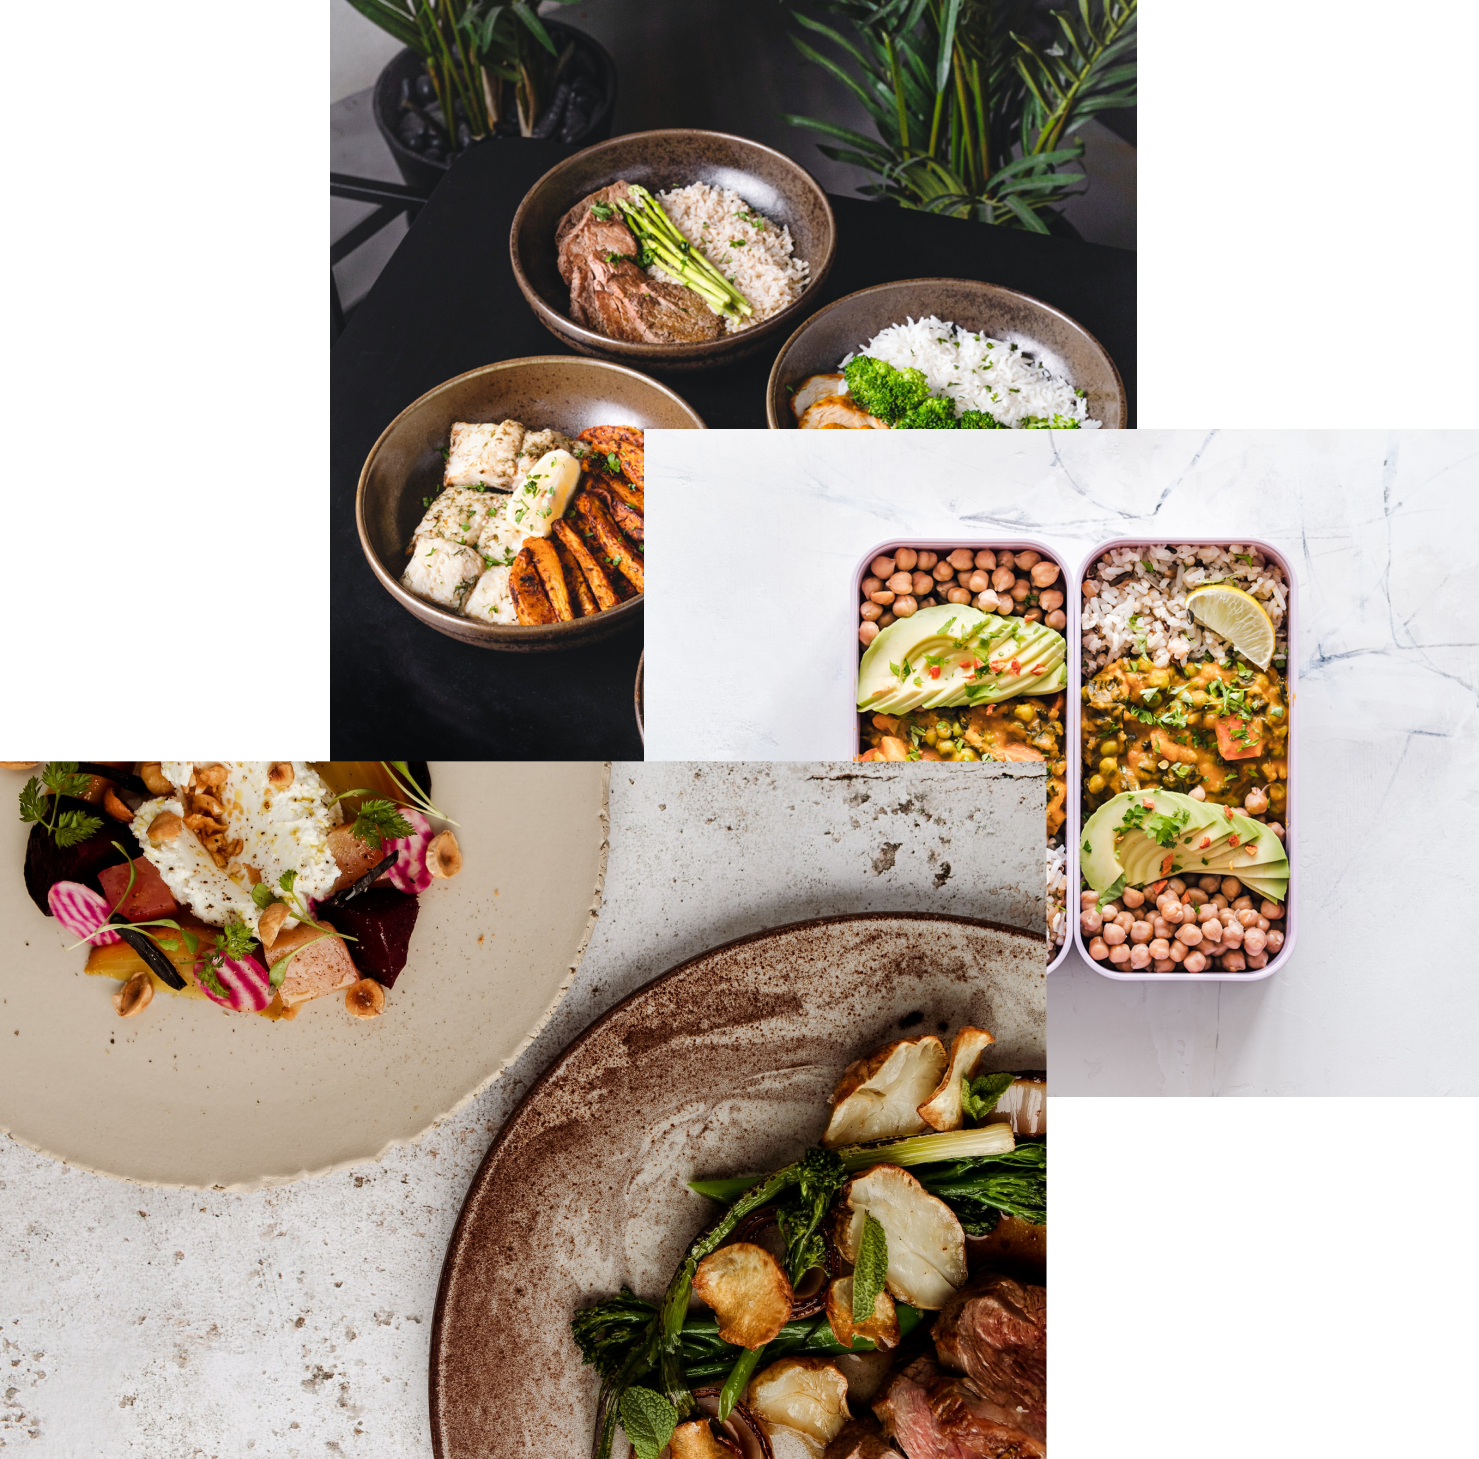
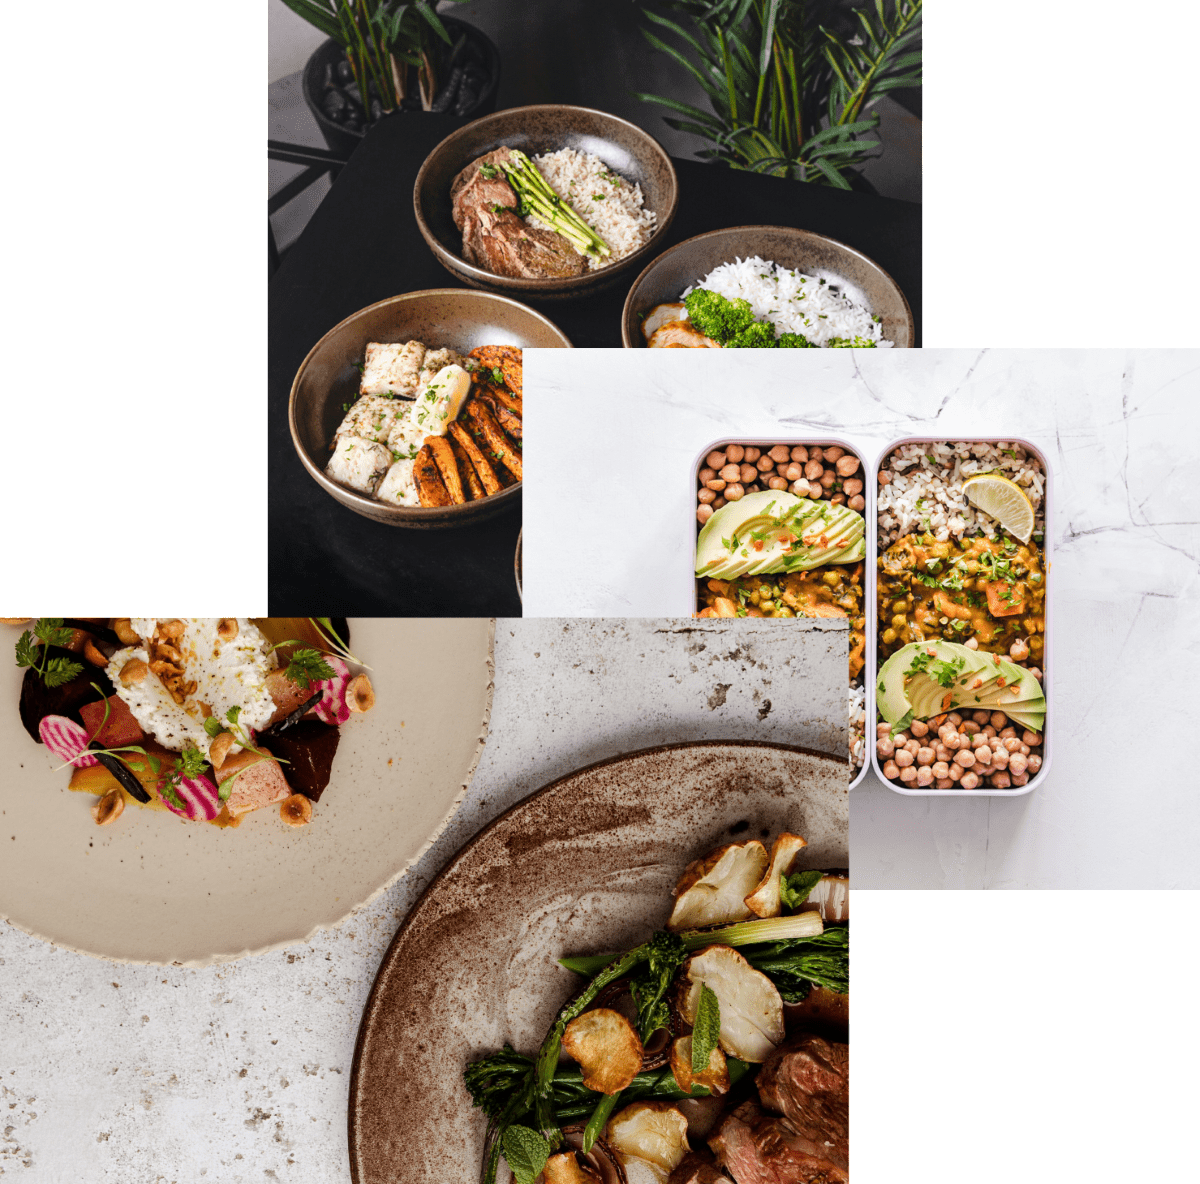
optimizeations img

Changed region(s): [[0.6167, 0.4375, 0.6783, 0.4688], [0.5858, 0.25, 0.6167, 0.2812]]

diff --git a/index.html b/index.html
@@ -9,9 +9,9 @@
     />
     <meta name="viewport" content="width=device-width, initial-scale=1.0" />
 
-    <link rel="icon" href="img/favicon.png">
-    <link rel="apple-touch-icon" href="img/apple-touch-icon.png">
-    <link rel="manifest" href="manifest.webmanifest">
+    <link rel="icon" href="img/favicon.png" />
+    <link rel="apple-touch-icon" href="img/apple-touch-icon.png" />
+    <link rel="manifest" href="manifest.webmanifest" />
 
     <link rel="preconnect" href="https://fonts.googleapis.com" />
     <link rel="preconnect" href="https://fonts.gstatic.com" crossorigin />
@@ -95,11 +95,15 @@
             </div>
           </div>
           <div class="hero-img-box">
-            <img
-              src="img/hero.png"
-              alt="enjoy food, meals in storage container, and food bowls on a table"
-              class="hero-img"
-            />
+            <picture>
+              <source srcset="img/hero.webp" type="image/webp" />
+              <source srcset="img/hero.png" type="image/png" />
+              <img
+                src="img/hero.png"
+                alt="enjoy food, meals in storage container, and food bowls on a table"
+                class="hero-img"
+              />
+            </picture>
           </div>
         </div>
       </section>
